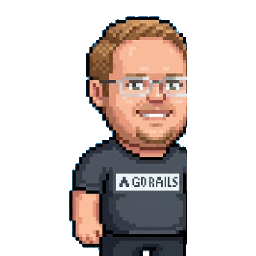
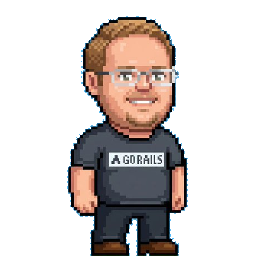
conference: re-cut speaker sprites so arms and legs stop being clipped
The first pass used one fixed crop box for every card, which fits nobody: Chris
and Marco lost both arms to the sides, and everyone was cut off mid-thigh.

Replaced with per-card bounds, added as scripts/cut-speaker-sprite.py so the
remaining six cards can be cut the same way:

- find the platform by the grass colour rather than by row width, because Rosa
  stands beside a dog and her rows are already as wide as the platform
- flood-fill the character from a seed above its feet, bounded above the grass.
  Sky separates the character from the bubble, headline and logo, so the region
  cannot leak into them
- use that region as the alpha mask, not just as a bounding box. Rosa's box is
  wide enough to reach the speech bubble, which otherwise rides along inside
  the crop rectangle
- pick the two dither blues by frequency over a sky strip. Sampling touching
  corner pixels returned the same shade twice on some cards, leaving half the
  checkerboard behind

Garry keeps his original bust framing; there is no full-body version of that
one, so he sits slightly closer than the rest.

Changed region(s): [[0.25, 0.0625, 0.75, 1.0]]

diff --git a/scripts/cut-speaker-sprite.py b/scripts/cut-speaker-sprite.py
@@ -1,0 +1,162 @@
+"""Cut the character sprite out of an SF Ruby speaker announcement card.
+
+    python3 scripts/cut-speaker-sprite.py card.jpg public/speaker_<slug>_pixel_256.png
+
+Takes an announcement card as posted on socials and writes the 256x256
+transparent sprite the speaker roster expects (see SpeakerRoster.astro and the
+`pixel` field in src/data/conference-2026.js). Requires ImageMagick (`magick`).
+
+The cards are templated: dithered blue sky, character standing on a floating
+platform at the left, speech bubble to its right, logo far right, headline
+across the top.
+
+A fixed crop box clips the broader characters' arms, and box heuristics keep
+catching bubble and headline fragments. So instead: find the grass line by
+colour, then flood-fill the character as a connected region seeded just above
+its feet. Sky separates the character from the bubble, headline and logo, so the
+region cannot leak into them, and bounding the fill above the grass keeps the
+platform out.
+"""
+import subprocess, sys, os
+from collections import deque
+
+# Bounds come from a deliberately loose mask (JPEG ringing around the dither
+# otherwise speckles every row). The cut uses a tight fuzz against both dither
+# blues so blue eyes and navy clothing survive.
+MASK_FUZZ, CUT_FUZZ = "18%", "9%"
+
+
+def sky_colours(raw, w, h, n=2):
+    """The dominant dither blues, by frequency over a strip of pure sky.
+
+    Sampling three touching corner pixels is not enough: JPEG smoothing makes
+    them near-identical on some cards, so only one of the two dither shades gets
+    removed and the checkerboard survives the cut.
+    """
+    counts = {}
+    for y in range(4, min(h, 90)):
+        base = y * w * 3
+        for x in range(4, min(w, 120)):
+            i = base + x * 3
+            counts[raw[i:i + 3]] = counts.get(raw[i:i + 3], 0) + 1
+    top = sorted(counts, key=counts.get, reverse=True)[:n]
+    return [f"srgb({c[0]},{c[1]},{c[2]})" for c in top]
+
+
+def build_mask(card, w, h, corner):
+    out = subprocess.run(
+        ["magick", card, "-alpha", "set", "-fuzz", MASK_FUZZ,
+         "-transparent", corner, "-alpha", "extract", "-threshold", "50%",
+         "-morphology", "Open", "Disk:1.5", "-depth", "8", "gray:-"],
+        capture_output=True, check=True).stdout
+    return bytearray(out)
+
+
+def grass_top(raw, w, h, x_end, y_start):
+    """First row holding the platform's saturated green, scanning top-down."""
+    for y in range(y_start, h):
+        base = y * w * 3
+        hits = 0
+        for x in range(x_end):
+            i = base + x * 3
+            r, g, b = raw[i], raw[i + 1], raw[i + 2]
+            if g > 110 and g > r + 45 and g > b + 45:   # grass, not skin or sky
+                hits += 1
+                if hits > 12:
+                    return y
+    return None
+
+
+def cut(card, out_path, slab=0.40, top_skip=0.10):
+    w, h = map(int, subprocess.run(
+        ["magick", card, "-format", "%w %h", "info:"],
+        capture_output=True, text=True, check=True).stdout.split())
+    rgb = subprocess.run(["magick", card, "-depth", "8", "rgb:-"],
+                         capture_output=True, check=True).stdout
+    blues = sky_colours(rgb, w, h)
+    mask = build_mask(card, w, h, blues[0])
+
+    x_end = int(w * slab)
+    y_start = int(h * top_skip)
+    ground = grass_top(rgb, w, h, x_end, y_start)
+    if ground is None:
+        raise SystemExit(f"{card}: could not find the grass line")
+
+    # Seed on the widest opaque run a little above the grass: the legs.
+    seed = None
+    for probe in range(ground - 12, ground - 90, -6):
+        row, best, run, start = probe * w, None, 0, None
+        for x in range(x_end):
+            if mask[row + x]:
+                if start is None:
+                    start = x
+                run += 1
+            else:
+                if start is not None and (best is None or run > best[1]):
+                    best = (start + run // 2, run)
+                start, run = None, 0
+        if start is not None and (best is None or run > best[1]):
+            best = (start + run // 2, run)
+        if best and best[1] > 8:
+            seed = (best[0], probe)
+            break
+    if seed is None:
+        raise SystemExit(f"{card}: could not seed the character")
+
+    # Flood fill the character, never crossing into the platform.
+    seen = bytearray(w * h)
+    q = deque([seed])
+    seen[seed[1] * w + seed[0]] = 1
+    x0 = x1 = seed[0]
+    y0 = y1 = seed[1]
+    while q:
+        cx, cy = q.popleft()
+        if cx < x0: x0 = cx
+        if cx > x1: x1 = cx
+        if cy < y0: y0 = cy
+        if cy > y1: y1 = cy
+        for dx, dy in ((1, 0), (-1, 0), (0, 1), (0, -1)):
+            nx, ny = cx + dx, cy + dy
+            if 0 <= nx < x_end and y_start <= ny < ground:
+                i = ny * w + nx
+                if mask[i] and not seen[i]:
+                    seen[i] = 1
+                    q.append((nx, ny))
+
+    pad = 3
+    x0, y0 = max(0, x0 - pad), max(0, y0 - pad)
+    x1, y1 = min(w - 1, x1 + pad), min(ground - 1, y1 + pad)
+    cw, ch = x1 - x0 + 1, y1 - y0 + 1
+
+    # The filled region becomes the alpha mask. Cropping to the bounding box is
+    # not enough on its own: Rosa stands beside a dog, so her box is wide enough
+    # to reach the speech bubble, which then rides along inside the rectangle.
+    region = os.path.join(os.path.dirname(out_path) or ".", ".region.pgm")
+    with open(region, "wb") as fh:
+        fh.write(f"P5\n{w} {h}\n255\n".encode())
+        fh.write(bytes(255 if v else 0 for v in seen))
+
+    dilated = region + ".dil.png"
+    subprocess.run(["magick", region, "-morphology", "Dilate", "Disk:2.5",
+                    dilated], check=True)
+    masked = region + ".cut.png"
+    subprocess.run(["magick", card, dilated, "-alpha", "off",
+                    "-compose", "CopyOpacity", "-composite", masked], check=True)
+
+    subprocess.run(
+        ["magick", masked,
+         "-crop", f"{cw}x{ch}+{x0}+{y0}", "+repage",
+         # Sky trapped inside the region (between an arm and the torso) still
+         # needs colour removal; the mask has already excluded everything else.
+         "-fuzz", CUT_FUZZ] +
+        [a for b in blues for a in ("-transparent", b)] +
+        ["-trim", "+repage",
+         "-filter", "point", "-resize", "x240",
+         "-background", "none", "-gravity", "south", "-extent", "256x256",
+         out_path], check=True)
+    for f in (region, dilated, masked): os.remove(f)
+    print(f"{os.path.basename(card):12s} {cw}x{ch}+{x0}+{y0}  grass={ground} sky={blues}")
+
+
+if __name__ == "__main__":
+    cut(sys.argv[1], sys.argv[2])
